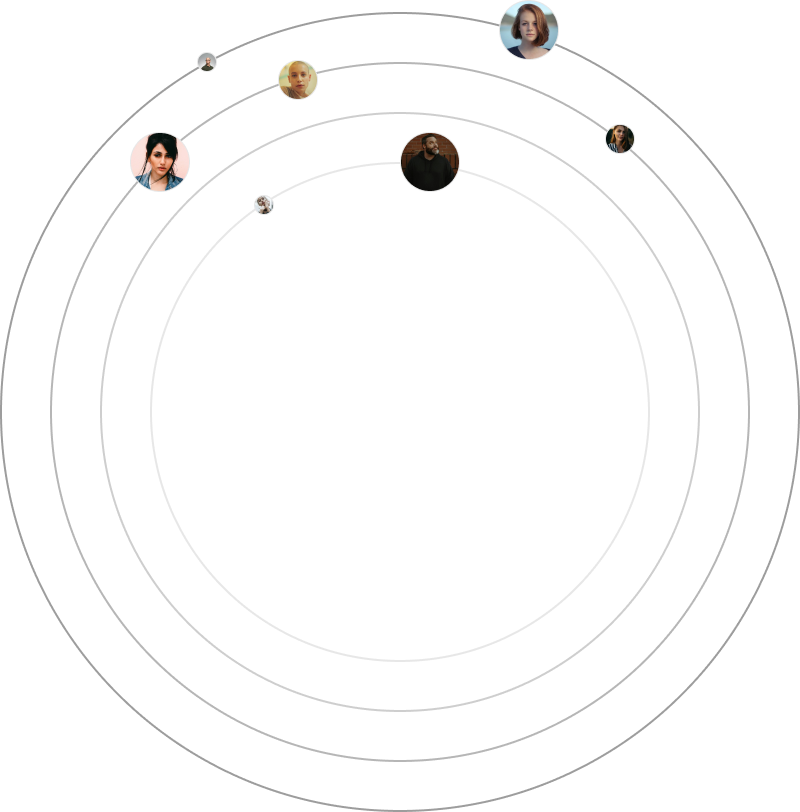
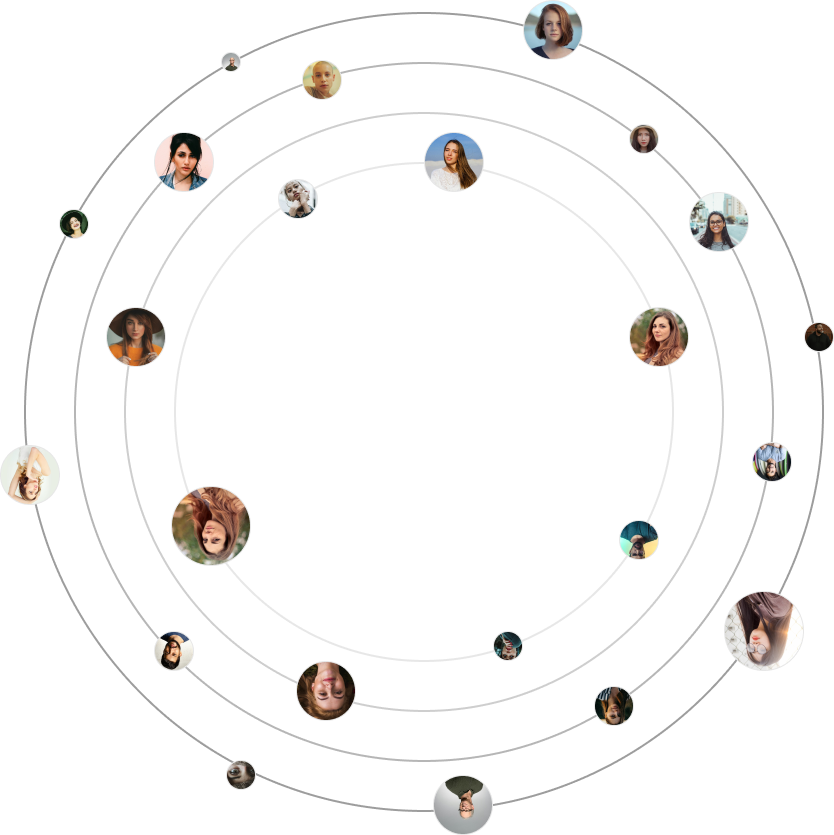
approx done contact page

diff --git a/pace-website/src/app/globals.css b/pace-website/src/app/globals.css
@@ -24,6 +24,7 @@ body {
   --success: #17b26a;
   --gray_25: #f9f9f9;
   --gray_100: #e7e7e7;
+  --gray_200: #cecece;
   --gray_400: #9d9d9d;
   --gray_500: #848384;
   --gray_700: #555354;
@@ -302,7 +303,7 @@ body {
 }
 .contact--hero-image {
   animation: rotate 2s linear infinite;
-  animation-duration: 15000ms;
+  animation-duration: 50000ms;
 }
 @keyframes rotate {
   0% {
@@ -424,3 +425,80 @@ nav {
 option:hover {
   background-color: green !important;
 }
+
+.check_contact_text {
+  color: var(--gray_500);
+  font-size: 1.6rem;
+  font-weight: 400;
+  letter-spacing: -0.05rem;
+}
+.check_contact_text > a {
+  color: var(--gray_100) !important;
+  text-decoration: underline;
+  text-decoration-color: var(--gray_100) !important;
+}
+
+/* checkbox of website goes here */
+.checkbox-wrapper-40 {
+  --borderColor: #48c;
+  --borderWidth: 0.2rem;
+  cursor: pointer !important;
+}
+
+.checkbox-wrapper-40 label {
+  display: block;
+  max-width: 100%;
+  margin: 0 auto;
+}
+
+.checkbox-wrapper-40 input[type="checkbox"] {
+  -webkit-appearance: none;
+  appearance: none;
+  vertical-align: middle;
+  background: none;
+  font-size: 1.8em;
+  border-radius: 0.125em;
+  display: inline-block;
+  border: 1px solid var(--gray_200);
+  width: 1.6rem;
+  height: 1.6rem;
+  position: relative;
+}
+.checkbox-wrapper-40 input[type="checkbox"]:before,
+.checkbox-wrapper-40 input[type="checkbox"]:after {
+  content: "";
+  position: absolute;
+  background: var(--success);
+  width: calc(var(--borderWidth) * 3);
+  height: var(--borderWidth);
+  top: 50%;
+  left: 10%;
+  transform-origin: left center;
+}
+.checkbox-wrapper-40 input[type="checkbox"]:before {
+  transform: rotate(45deg)
+    translate(calc(var(--borderWidth) / -2), calc(var(--borderWidth) / -2))
+    scaleX(0);
+  transition: transform 200ms ease-in 200ms;
+}
+.checkbox-wrapper-40 input[type="checkbox"]:after {
+  width: calc(var(--borderWidth) * 5);
+  transform: rotate(-45deg) translateY(calc(var(--borderWidth) * 2)) scaleX(0);
+  transform-origin: left center;
+  transition: transform 200ms ease-in;
+}
+.checkbox-wrapper-40 input[type="checkbox"]:checked:before {
+  transform: rotate(45deg)
+    translate(calc(var(--borderWidth) / -2), calc(var(--borderWidth) / -2))
+    scaleX(1);
+  transition: transform 200ms ease-in;
+}
+.checkbox-wrapper-40 input[type="checkbox"]:checked:after {
+  width: calc(var(--borderWidth) * 5);
+  transform: rotate(-45deg) translateY(calc(var(--borderWidth) * 2)) scaleX(1);
+  transition: transform 200ms ease-out 200ms;
+}
+.checkbox-wrapper-40 input[type="checkbox"]:focus {
+  outline: calc(var(--borderWidth) / 2) dotted rgba(0, 0, 0, 0.25);
+}
+/* checkbox of website end here */

diff --git a/pace-website/src/app/components/Form.jsx b/pace-website/src/app/components/Form.jsx
@@ -3,6 +3,7 @@
 import { Button } from "@/components";
 import { useEffect, useState } from "react";
 import { countriesCode } from "@/json/country";
+import Link from "next/link";
 
 export default function Form() {
   const [countries, setCountries] = useState([]);
@@ -131,6 +132,17 @@ export default function Form() {
                 id="message"
                 placeholder="Leave us a message"
               />
+              <div className="mt-[0.7rem] check_contact_text flex items-center">
+                <div class="checkbox-wrapper-40">
+                  <label>
+                    <input type="checkbox" />
+                    <span class="checkbox"></span>
+                  </label>
+                </div>
+                <p className="ml-[0.7rem]">
+                  You agree to our friendly <Link href="#">Privacy Policy</Link>
+                </p>
+              </div>
             </div>
           </div>
           <Button text={"Send Message"} classNames={"contact_btn"} />
